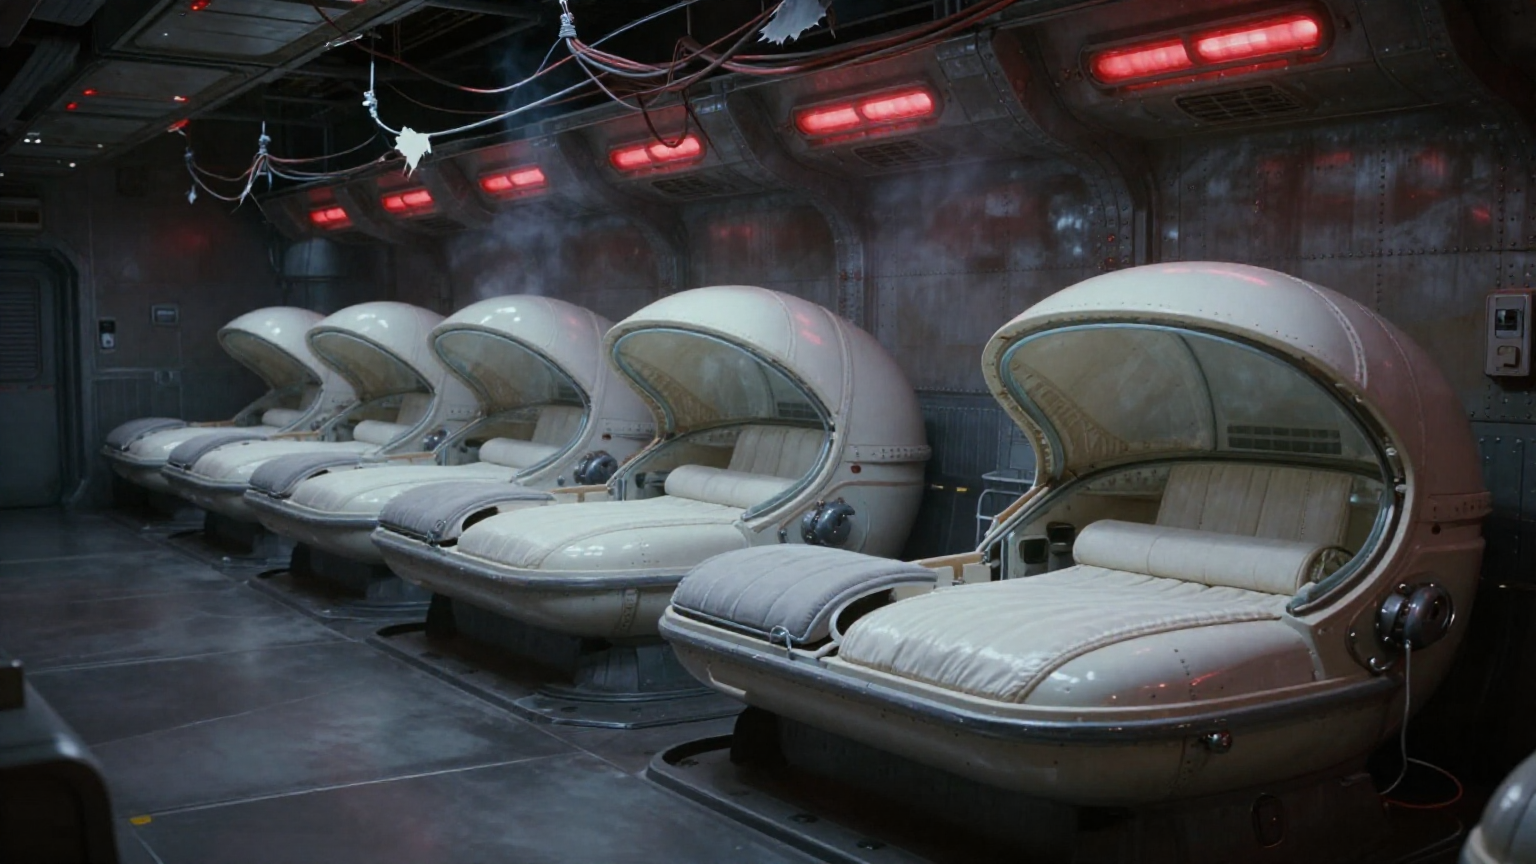
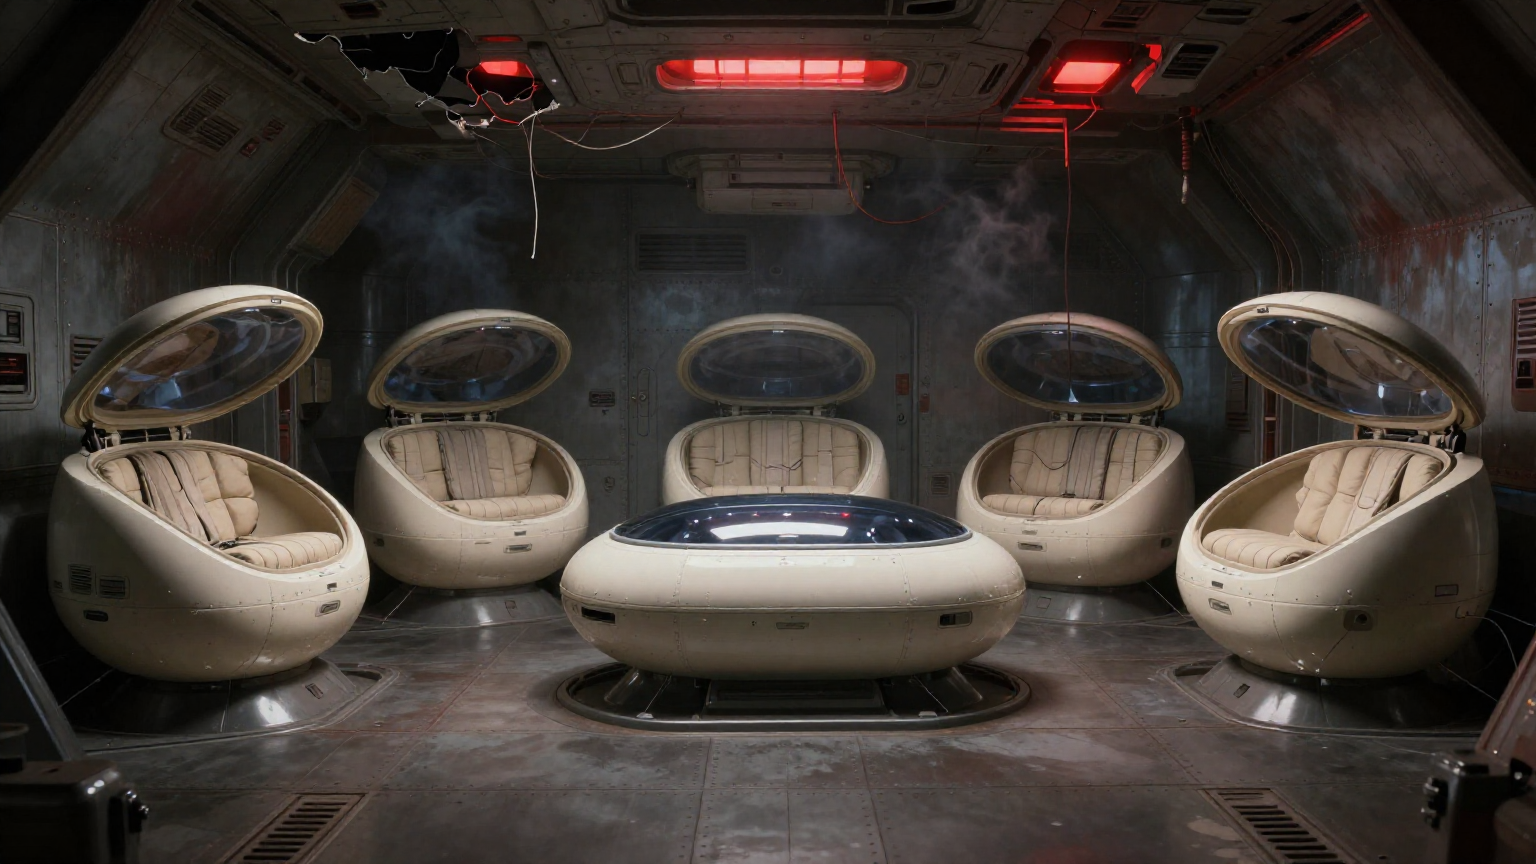
Revise the bay concept to one pod design with open canopies after review

diff --git a/docs/art/README.md b/docs/art/README.md
@@ -4,8 +4,11 @@ Direction (Andrew, 2026-09-17): the ship reads as an old, broken-down
 colonial warship in the Battlestar Galactica / Stargate Universe
 tradition. Walls are paneled, ribbed, piped structure, not flat cubes.
 The stasis pods read as rounded, smooth, and newer than the ship around
-them: the pods are recent hardware installed in a worn hull. These
-images are the visual target for the wall and pod work.
+them: the pods are recent hardware installed in a worn hull. The pods
+are OPEN: the crew came out of stasis and left, so most canopies stand
+raised with empty couches and hanging occupancy blankets; a few pods
+remain sealed. These images are the visual target for the wall and pod
+work.
 
 ## Pieces
 
@@ -13,16 +16,19 @@ images are the visual target for the wall and pod work.
 | --- | --- | --- |
 | `room-walls.png` | Worn compartment interior: riveted seamed bulkheads, pipe runs, cable conduits, hazard plates, battle damage, red emergency mood. | #35 wall/floor/ceiling textures, anti-cube wall geometry |
 | `pod-design-sheet.png` | Stasis pod design sheet: rounded horizontal capsule, off-white composite shell, dark glass canopy over a single padded couch with pillow and straps, red spine light. Three views. | #37 pod meshes: rounded and newer than the ship |
-| `stasis-bay-context.png` | The bay in context: pale capsule pods on cradles in the grimy riveted compartment, nearest pod open with canopy raised and couch visible. | Composite mood target for #35/#37/#40 review |
+| `stasis-bay-context.png` | The bay in context: one consistent capsule-pod design (matching the sheet) on cradles in the grimy riveted compartment; five pods open clamshell-style with raised canopy lids, empty couches, hanging blankets; one sealed. | Composite mood target for #35/#37/#40, the crew-left story beat |
 
 ## Verification
 
 Each piece passed an independent Eyes review (vision subagent, strict
-pass/fail with quoted observations): the wall piece passed structure and
-mood; the pod sheet and bay pieces were regenerated once to remove an
-automotive-cockpit read and add an open canopy, then passed. Artifacts of
-the review (quotes, verdicts) live in the session log; generation
-prompts are recorded below.
+pass/fail with quoted observations). The wall piece passed first pass.
+The pod sheet and bay piece were each regenerated once (the sheet had
+an automotive cockpit inside the pod; the bay had all pods sealed), then
+passed. The bay piece was revised a second time after review feedback
+that the pods must visibly match the sheet design and read as open with
+raised lids (crew already left stasis); that revision passed with the
+pod family, open-canopy story beat, worn-ship contrast, and coherence
+all confirmed. Generation prompts are recorded below.
 
 ## Provenance
 
@@ -42,9 +48,9 @@ HF_HOME=/Volumes/XS1000/hf-cache \
 | --- | --- | --- |
 | room-walls | 11 | 1536x864 |
 | pod-design-sheet | 44 | 1216x896 |
-| stasis-bay-context | 55 | 1536x864 |
+| stasis-bay-context | 66 | 1536x864 |
 
-Prompts (verbatim):
+Prompts (verbatim, final revisions):
 
 - room-walls: "Concept art, interior of an old broken-down colonial
   military starship compartment, Battlestar Galactica and Stargate
@@ -66,15 +72,17 @@ Prompts (verbatim):
   red rim lighting, precise product concept art rendering. No steering
   wheel, no cockpit, no car seats, no vehicle, no text, no people."
 - stasis-bay-context: "Wide cinematic concept art of a derelict
-  starship stasis bay: seven horizontal rounded capsule pods like
-  smooth white medical cryosleep berths resting on low deck cradles in
-  two rows, pale composite shells that look newer than the worn riveted
-  steel compartment around them. The nearest pod is open: its curved
-  glass canopy hinged fully up like an open clamshell, an empty padded
-  couch visible inside. Torn ceiling cable tray with hanging wires,
-  deep red emergency lighting, thin drifting smoke, Battlestar Galactica
-  meets Stargate Universe, dark filmic mood. No people, no text, no
-  vehicles."
+  starship stasis bay: seven identical horizontal rounded capsule
+  stasis pods in two rows on low deck cradles, one consistent product
+  design: smooth off-white composite shells with dark glass canopy lids
+  on top hinges. Five pods have their dark glass canopy lids hinged
+  fully open, raised up above each shell like open clamshells, empty
+  padded couches and hanging occupancy blankets visible inside; two
+  pods are sealed shut. The pale pods look newer than the worn riveted
+  steel compartment around them. Torn ceiling cable tray with hanging
+  wires, deep red emergency lighting, thin drifting smoke, Battlestar
+  Galactica meets Stargate Universe, dark filmic mood. No people, no
+  text, no vehicles."
 
 Operational note: mflux does not clobber an existing output file; it
 writes `<name>_1.png`. Delete or move the target before regenerating.
